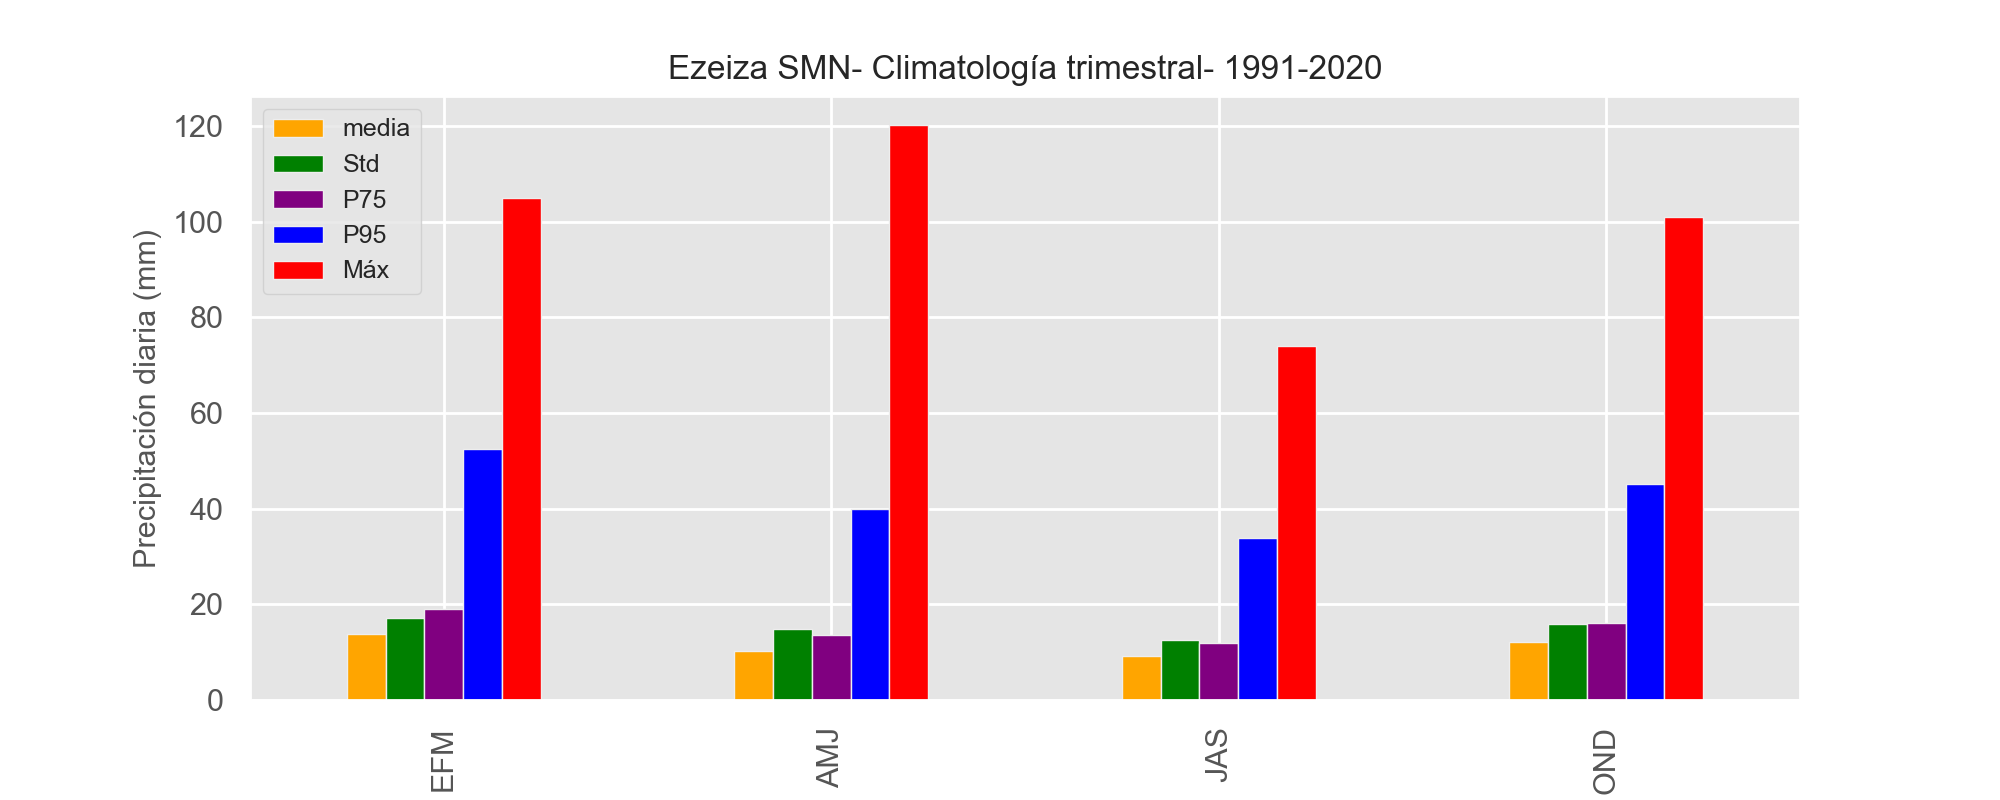
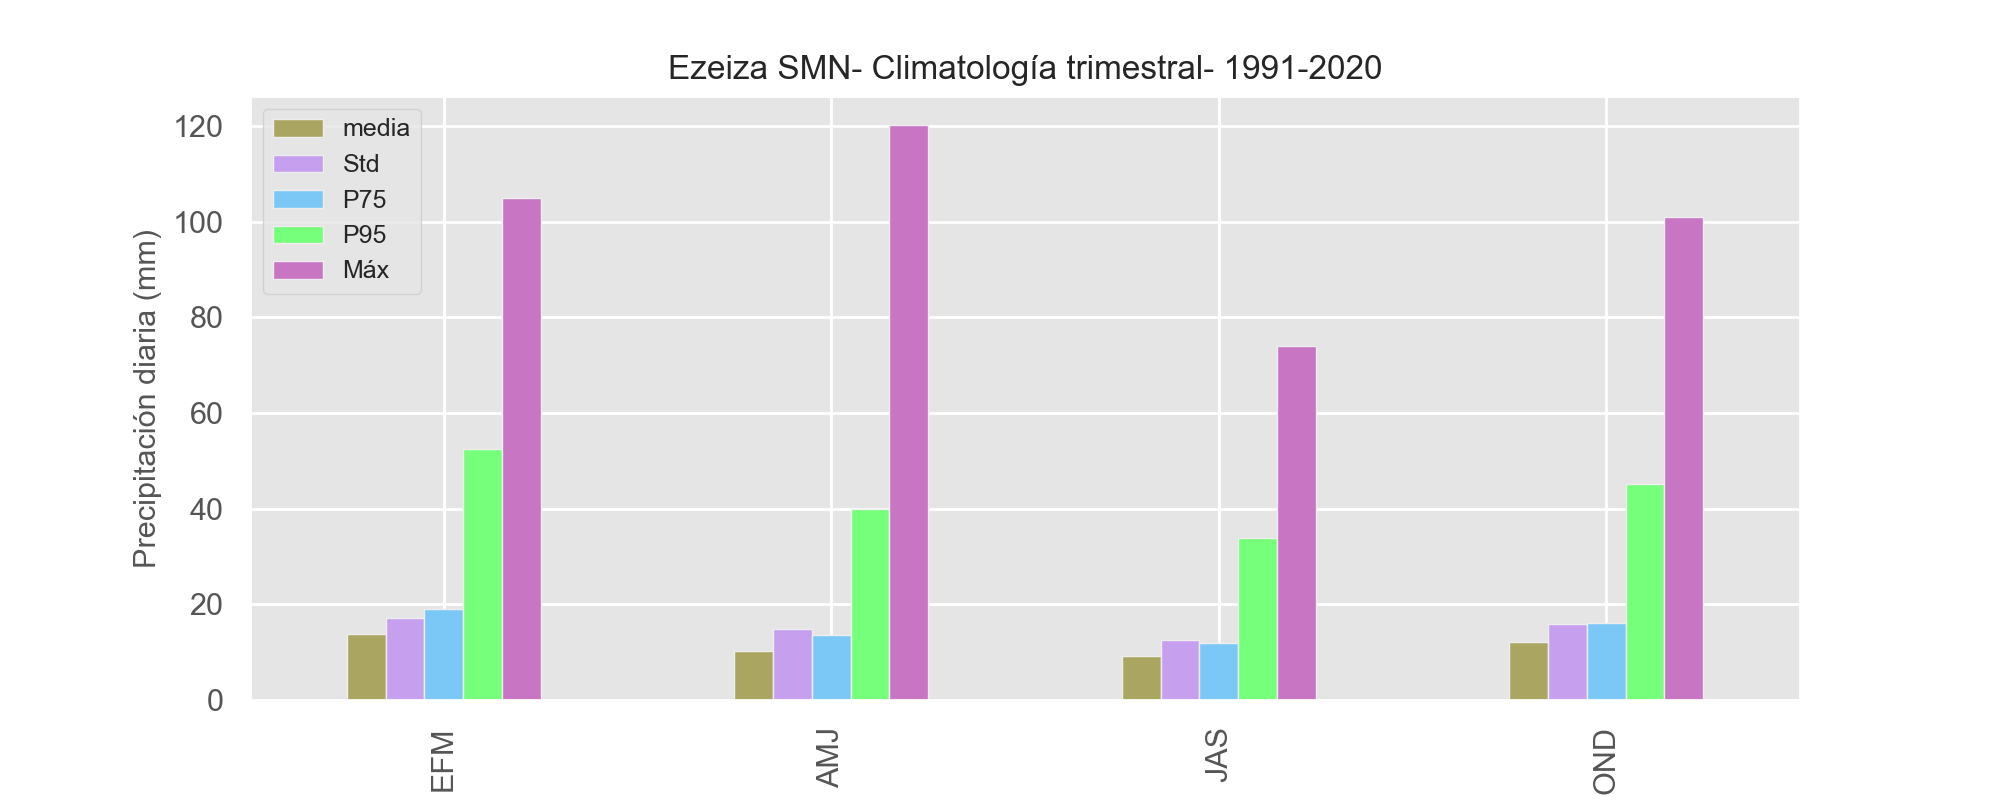
actualizacion  y avances en codigo+plots

diff --git a/codigo_pp_SMN_.py b/codigo_pp_SMN_.py
@@ -10,7 +10,7 @@ import os
 import pandas as pd
 import datetime
 import numpy as np
-import seaborn as sbn
+import seaborn as sns
 import matplotlib.pyplot as plt
 import matplotlib.dates as mdates
 import matplotlib.ticker as ticker
@@ -18,7 +18,7 @@ from matplotlib.dates import DateFormatter
 from pandas.plotting import register_matplotlib_converters
 from matplotlib.ticker import MultipleLocator 
 register_matplotlib_converters()
-sbn.set() # Setting seaborn as default style even if use only matplotlib
+sns.set() # Setting seaborn as default style even if use only matplotlib
 
 #estamos probando git
 
@@ -388,7 +388,7 @@ columnas=climatologia_por_trimestre.columns
 num_barras = len(columnas)
 ancho_barras = 0.8
 indice=climatologia_por_trimestre.index
-colores = ['orange','green', 'purple', 'blue', 'red']
+colores = ['#AAA662','#C79FEF', '#7BC8F6', '#76FF7B', '#C875C4']
 climatologia_por_trimestre.plot(kind='bar', figsize=(10,4),  color= colores)
 # Configurar el título y las etiquetas de los ejes
 plt.title('Ezeiza SMN- Climatología trimestral- 1991-2020', fontsize=12)
@@ -483,34 +483,96 @@ acumulado_mensual['Fecha']=pd.to_datetime(acumulado_mensual.index, format ='%Y/%
 meses_prom=acumulado_mensual.groupby(acumulado_mensual['Fecha'].dt.month).mean().round(1) #promedia los acum mensuales
 #meses_frios=[5, 6, 7, 8, 9]
 #meses_calidos=[10, 11, 12, 1, 2, 3, 4]
-sbn.set(font_scale=1.0, style="whitegrid")
+sns.set(font_scale=1.0, style="whitegrid")
 
-fig, ax = plt.subplots(figsize=(14, 5))
+fig, ax = plt.subplots(figsize=(14, 6))
+fig.suptitle('Ezeiza SMN - Valor medio de precipitación mensual\n 1991-2020')
 
-ax3=ax.bar(meses_prom.index, meses_prom['prcp'], width= 0.4, color='mediumslateblue')
+
+clrs = ['lightblue' if (4< x < 10) else 'pink' for x in meses_prom.index ]
+prom=sns.barplot(ax=ax, x=meses_prom.index, y=meses_prom['prcp'], palette=clrs, linewidth=5)
+prom.set(xlabel ="Meses")#, title ='some title')
+prom.set_yticks(range(1, 125, 20))
+prom.set_ylabel("Precipitación acumulada promedio (mm)", fontsize= 10)
+
+
+#clrs = ['grey' if (4< x < 10) else 'red' for x in meses_prom.index ]
+#prom=sbn.barplot(x=meses_prom.index, y=meses_prom['prcp'], palette=clrs)
+#prom.set(xlabel ="GFG X", ylabel = "GFG Y", title ='some title')
+
+
+#fig, ax = plt.subplots(figsize=(14, 5))
+
+#ax3=ax.bar(meses_prom.index, meses_prom['prcp'], width= 0.4, color='mediumslateblue')
 #ax3=ax.bar(lista_meses_calidos, meses_prom['prcp'], width= 0.4, color='pink')
 
+'''
 ax.set(xlabel="Meses",
        ylabel="Precipitación acumulada (mm)",
        title="Ezeiza SMN- Valor medio de precipitación mensual\n1991-2020")
 ax.set_xticks(range(1, 13, 1))
-
+'''
 #plt.setp(ax.get_xticklabels()) 
 #pone etiqueta a cada barra
-for p in ax3.patches:
+for p in ax.patches:
     ax.annotate(np.round(p.get_height(),decimals=2), (p.get_x()+p.get_width()/2., 
                                                       p.get_height()), ha='center', 
                 va='center', xytext=(0, 10), textcoords='offset points')
+plt.savefig("plot/promedio_mensual_pp.png", dpi=200)
 plt.show()
 
 #%%
+'''TABLA DE ESTADÍSTICOS SEGUN SIS VERANO O SIS INVIERNO'''
+'''período climatologico 1991-2020'''
 
-#plotting ACUMULADOS MENSUALES   ----> ACOMODAR EL EJE  X
 
-meses['mes']=meses.index.month
+f_dfclima['Fecha'] = pd.to_datetime(f_dfclima['Fecha']) #estan solo los dias con lluvia
+#separo los datos en meses frios y meses calidos
+meses_sis_frio=f_dfclima[f_dfclima['Fecha'].dt.month.isin([5, 6, 7, 8, 9])] #991 datos
+meses_sis_calido=f_dfclima[f_dfclima['Fecha'].dt.month.isin([1, 2, 3, 4, 10, 11, 12])] #1675 datos
+
+
+estadisticos_sis_frio=meses_sis_frio.agg(['mean','std', 'min', 'max']).round(1)
+estadistico_sis_calido= meses_sis_calido.agg(['mean', 'std', 'min', 'max']).round(1)
+                                                                         
+percentiles_sis_frio= meses_sis_frio.quantile([0.25, 0.5, 0.75, 0.9, 0.95, 0.99]).round(1)
+percentiles_sis_calido= meses_sis_calido.quantile([0.25, 0.5, 0.75, 0.9, 0.95, 0.99]).round(1)
+#hago un df con valores estadisticos para cada estacion y luego grafico
+#creo un diccionario con los datos de las columnas
+
+data_clima_sis={'epoca_sis': ['SIS CÁLIDO', 'SIS FRÍO'], 'media': [12.9, 9.1], 'Std': [16.5, 13],
+      'P75': [17, 12], 'P90': [34.9, 26], 'P95': [48, 34.9], 'P99': [72.7, 55.6],
+      'Máx': [116, 120.3]}
+
+climatologia_epoca_sis= pd.DataFrame(data_clima_sis)
+climatologia_epoca_sis=climatologia_epoca_sis.set_index('epoca_sis')
+
+#plotting
+columnas=climatologia_epoca_sis.columns
+num_barras = len(columnas)
+ancho_barras = 0.8
+indice=climatologia_epoca_sis.index
+colores = ['#AAA662','#C79FEF', '#7BC8F6', '#76FF7B', '#C875C4', '#BFBF00', '#008000']
+climatologia_epoca_sis.plot(kind='bar', figsize=(10,4),  color= colores)
+# Configurar el título y las etiquetas de los ejes
+plt.title('Ezeiza SMN- Climatología según época SIS- 1991-2020', fontsize=12)
+plt.xlabel('Época SIS', fontsize= 14)
+plt.ylabel('Precipitación diaria (mm)', fontsize= 11)
+# Mostrar la leyenda
+plt.legend(columnas, fontsize=9)
+plt.savefig("plot/Climatologia_epoca_sis.png", dpi=200)
+plt.show()
+
+
+#%%
+#plotting ACUMULADOS MENSUALES de cada año de la serie ----> ACOMODAR EL EJE  X
+#podri servir para comparar con el promedio mensual de pp acumulada para 
+#cada mes, el grafico rosa y celeste de barras. Lo dejamos por las duda
+# nos sirva en algun momento
+acumulado_mensual['mes']=acumulado_mensual.index.month
 fig, ax=plt.subplots(figsize=(20,5))
                                                
-ax.plot(meses.index, meses.prcp,
+ax.plot(acumulado_mensual.index, acumulado_mensual.prcp,
         marker='o', color='b', linestyle='--')
 
 ax.set(xlabel="Meses",
@@ -522,6 +584,11 @@ date_form = DateFormatter("%Y-%m")
 ax.set_xticks(range(date_form))
 #ax.axhline(y=mean_acum_trimestral[0],
  #             color='r', linestyle='--', label='media verano')
+#%%
+#PP TRIMESTRAL ACUMULADA VS EL PROMEDIO DE PP TRIMESTRAL PARA CADA ESTACION
+#Nos podria servir para ver que veanos fueron mas lluviosos, por ejemplo, si estu
+#vieron muy por encima de la media de los acuulados de pp del verano.
+#igual tiene errores en el ultimo subplot y falta mejorar el grafico.
 
 acum_trimestral=f_dfclima.resample('Q').sum()
 acum_trimestral['Fecha'] =pd.to_datetime(acum_trimestral.index,format ='%Y/%m/%d')
